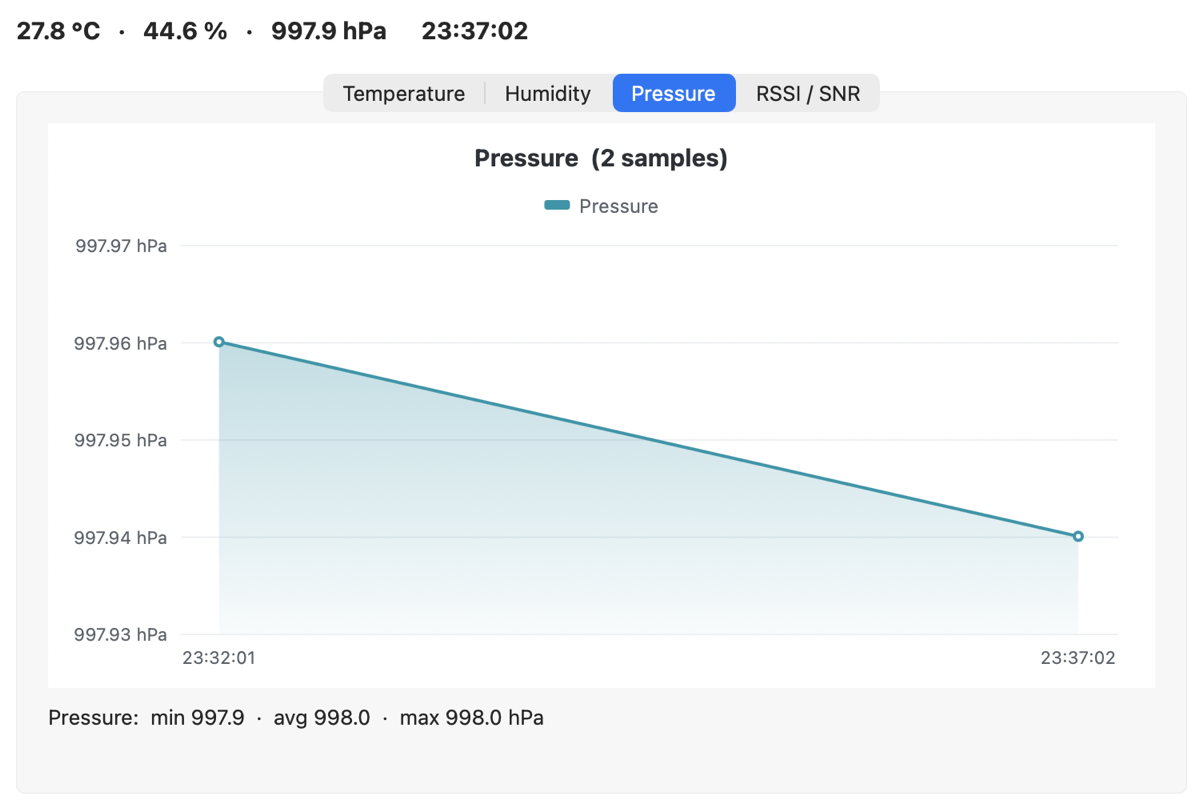
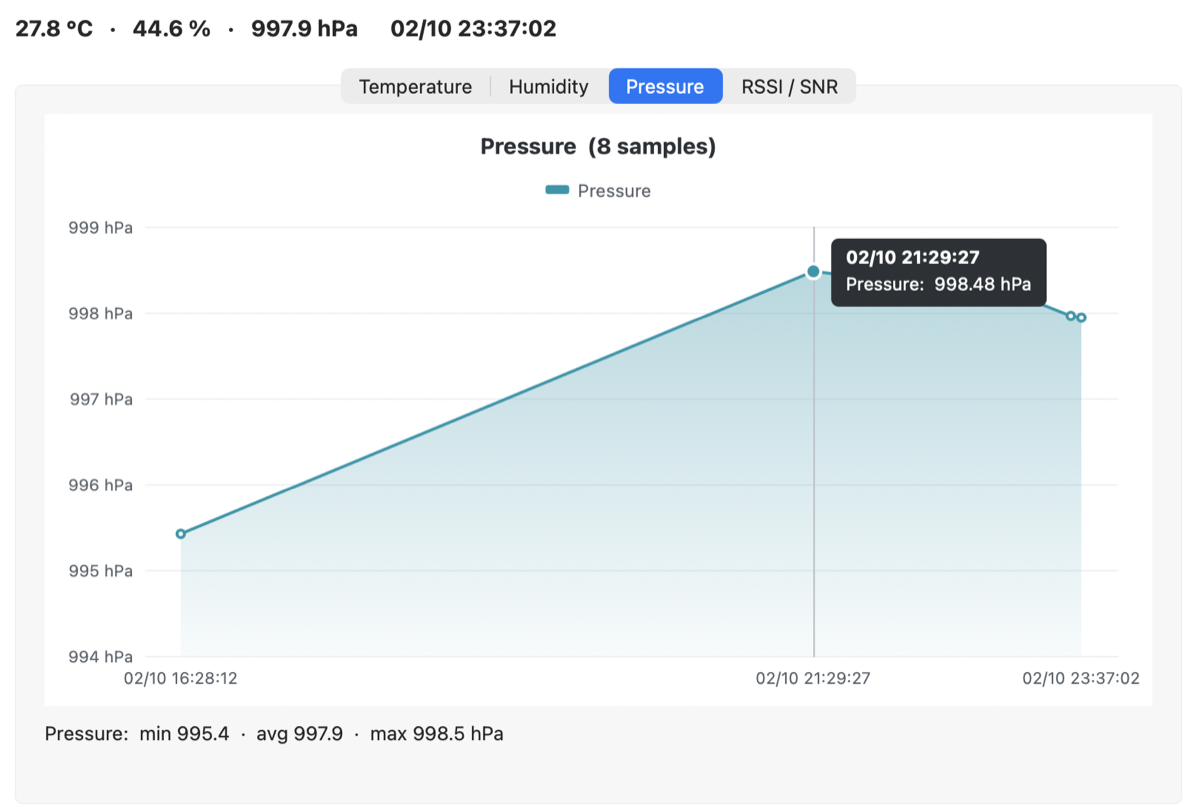
README: MQTT screenshots with history and a node filter
Cropped below the title bar.

diff --git a/README.md b/README.md
@@ -21,7 +21,7 @@ A Meshtastic node's own BME680, followed over its TCP connection. The window ope
   <img src="docs/screenshots/device-pressure.png" alt="Pressure chart" width="49%">
 </p>
 
-The same node followed over MQTT, through the broker its gateway uploads to, with a reading every 5 minutes:
+The same node followed over MQTT, through the broker its gateway uploads to, with **Node** set to it. These are readings stored the day before, loaded when the window opened: the time axis shows the afternoon gap between the first readings and the later ones taken every 5 minutes.
 
 ![Temperature chart of an MQTT feed](docs/screenshots/mqtt-temperature.png)
 
